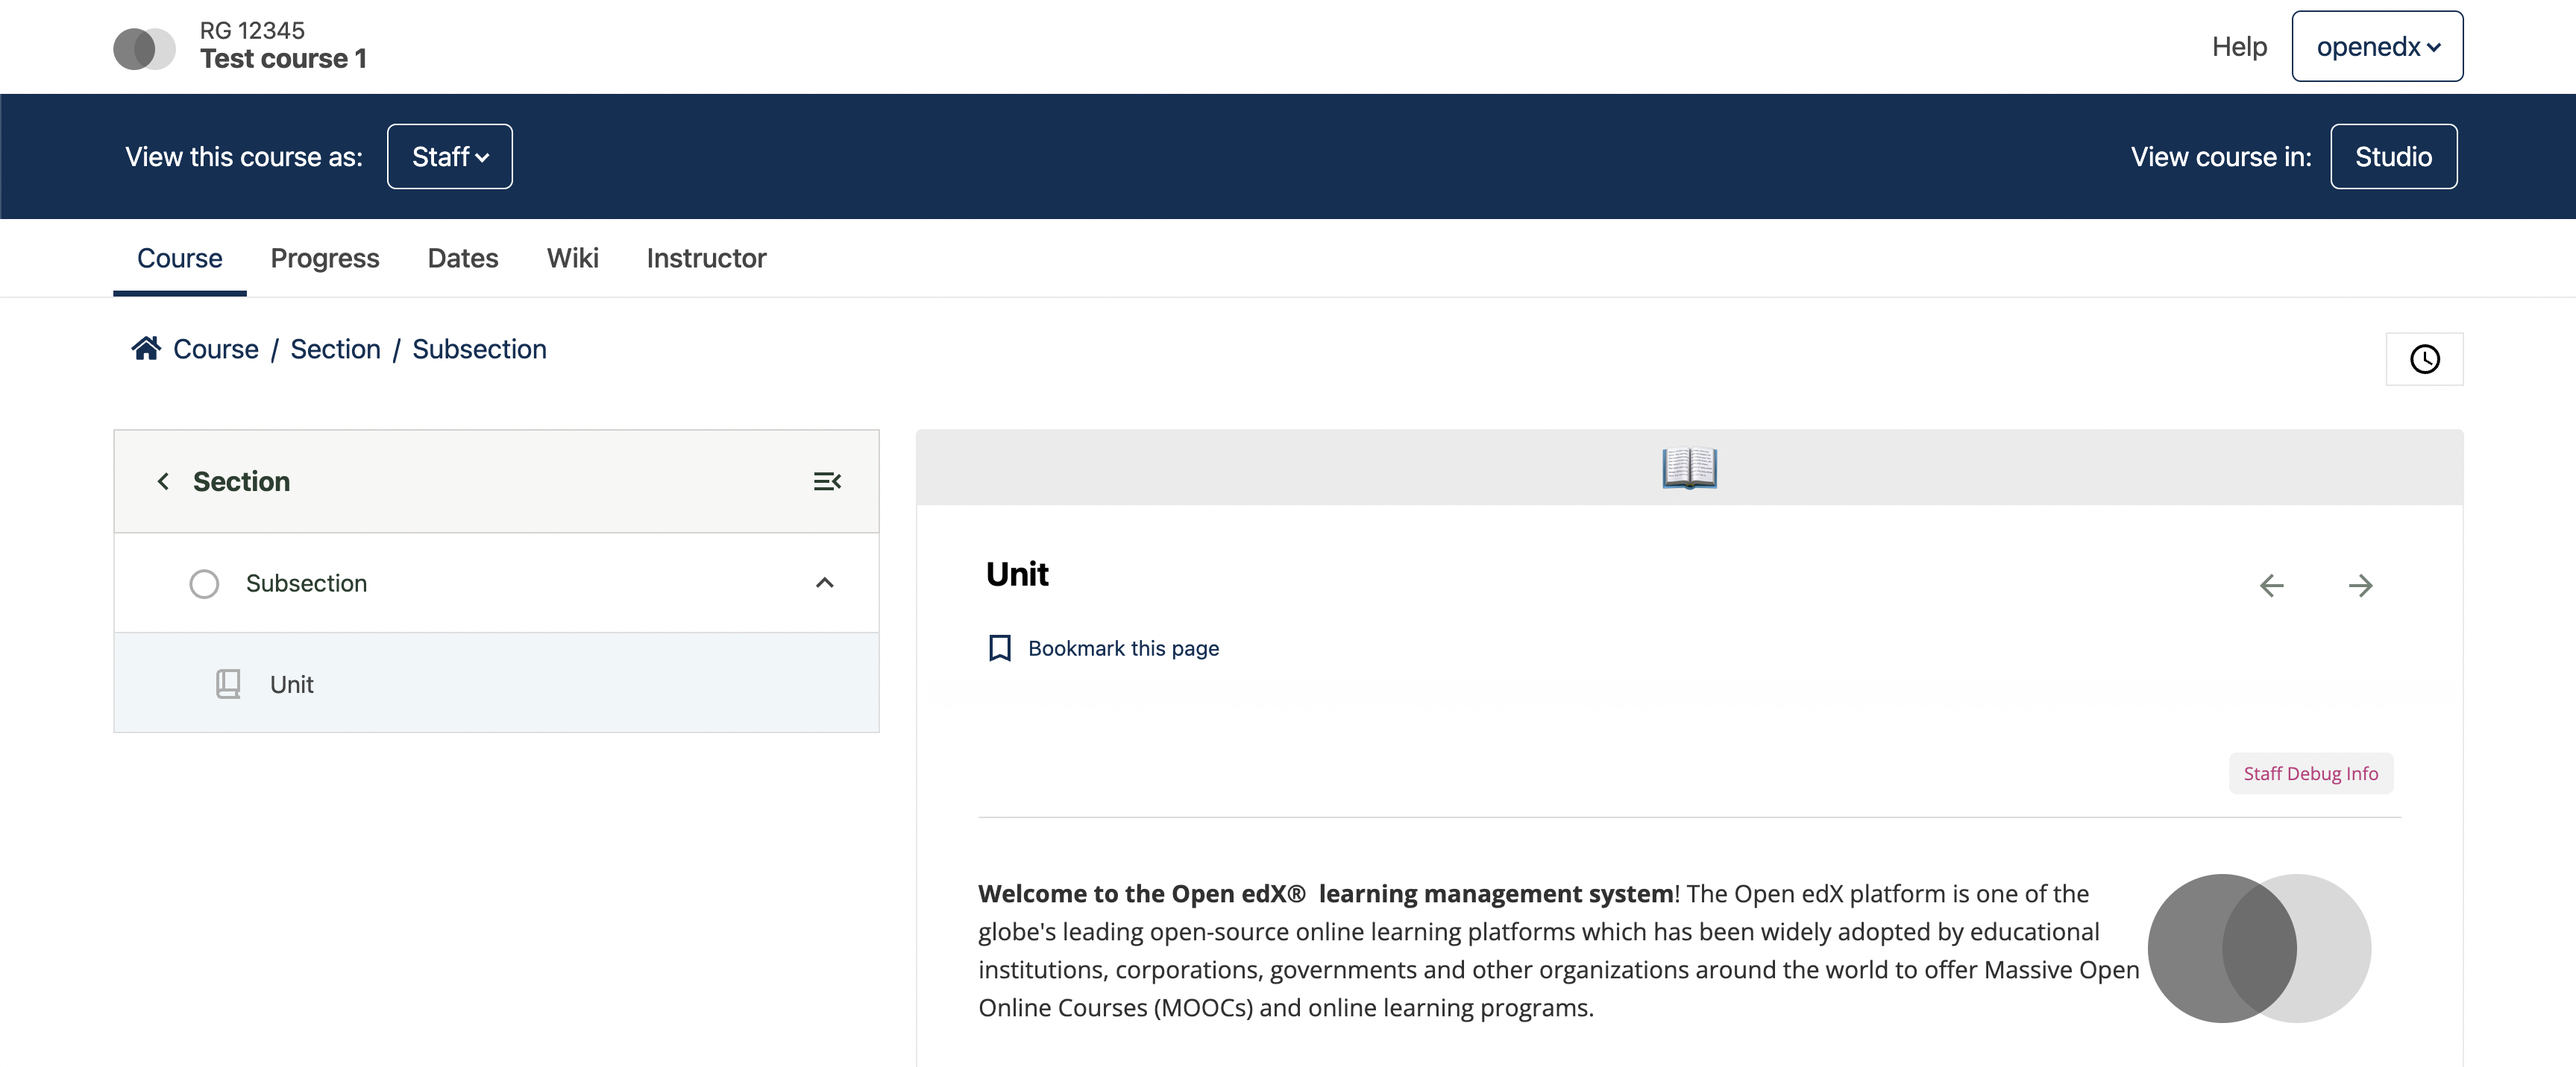
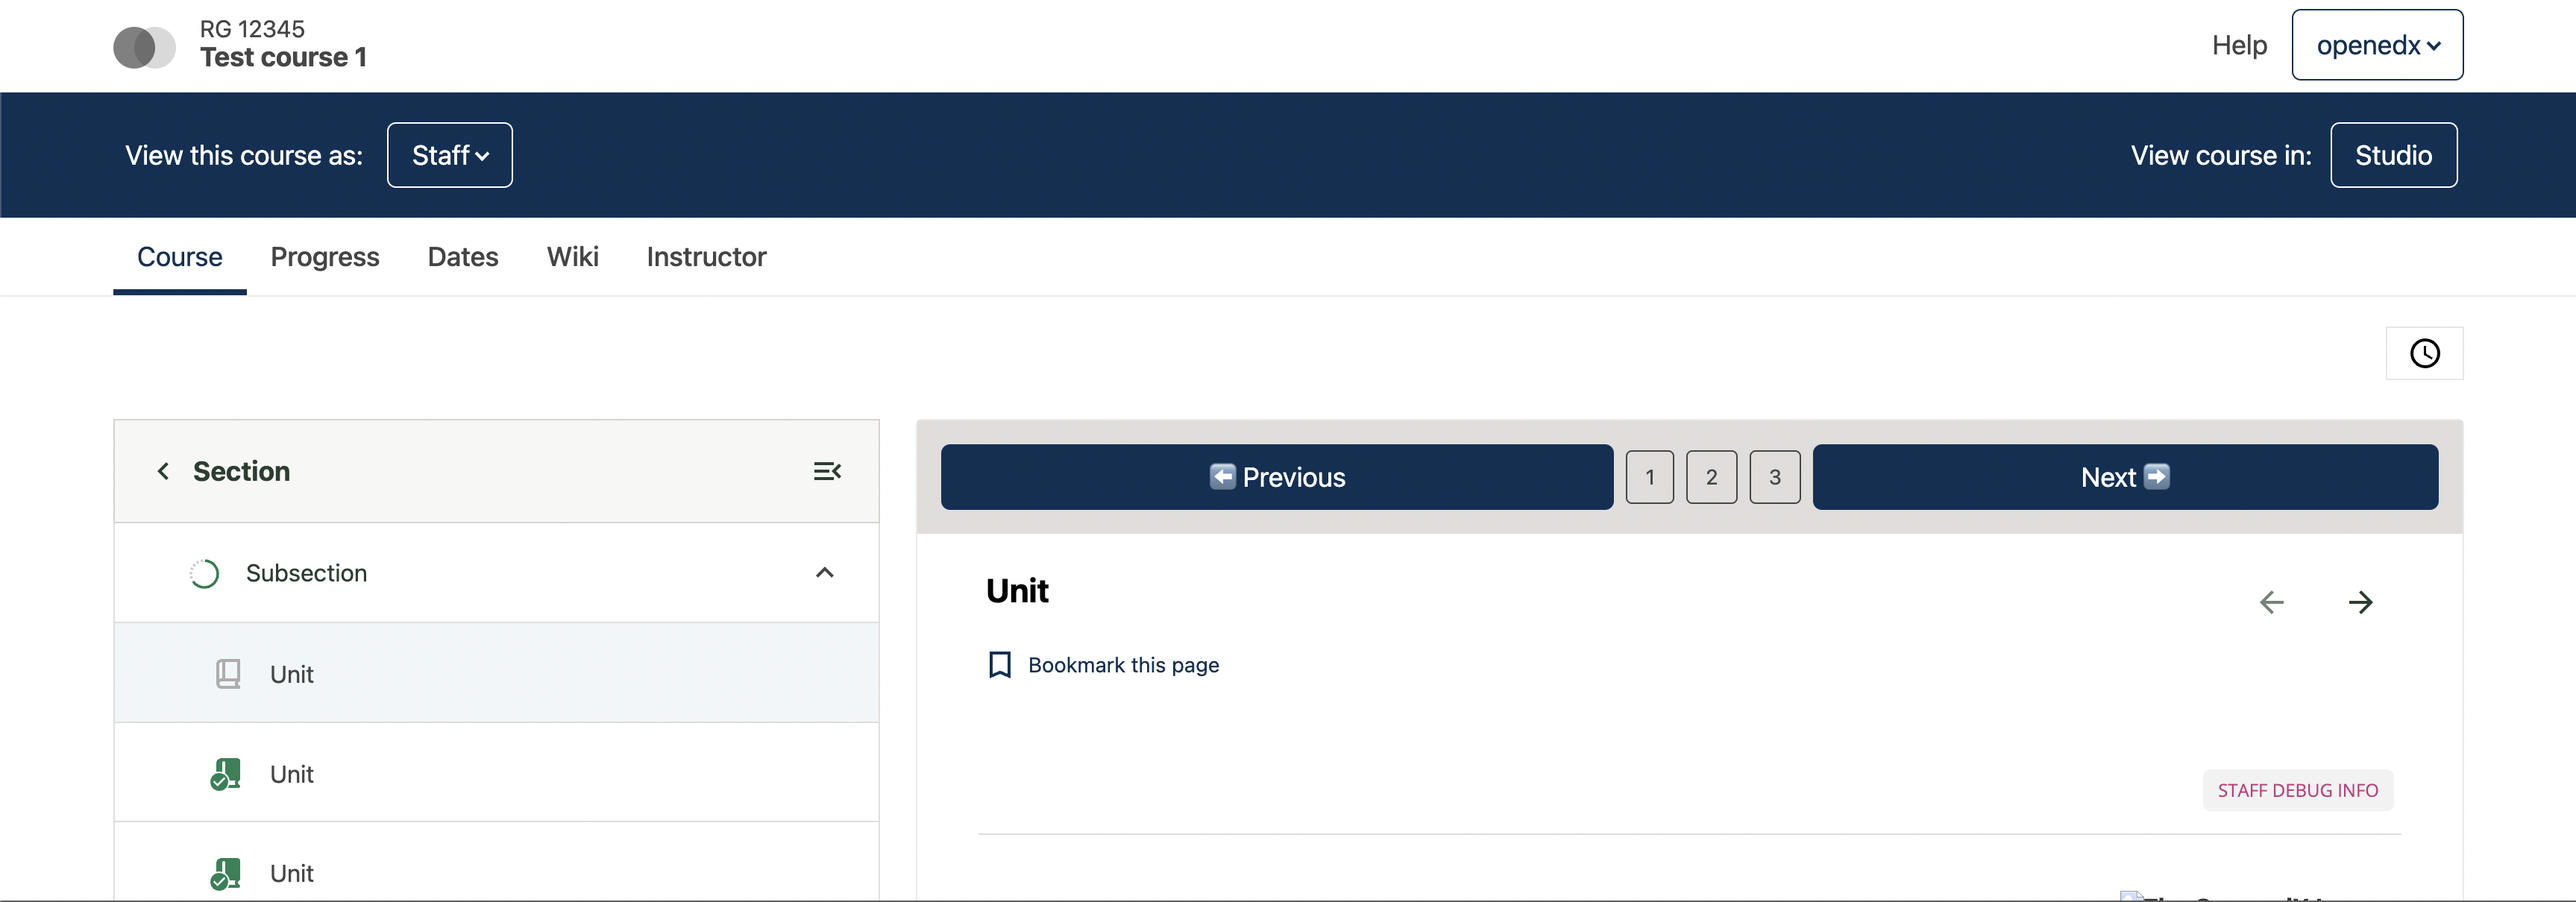
fix: update slot description

diff --git a/src/plugin-slots/SequenceNavigationSlot/index.jsx b/src/plugin-slots/SequenceNavigationSlot/index.jsx
@@ -13,10 +13,8 @@ const SequenceNavigationSlot = ({
 }) => (
   <PluginSlot
     id="org.openedx.frontend.learning.sequence_navigation.v1"
-    idAliases={['sequence_navigation_slot']}
     slotOptions={{
       mergeProps: true,
-      keepDefault: false,
     }}
     pluginProps={{
       sequenceId,

diff --git a/src/plugin-slots/SequenceNavigationSlot/README.md b/src/plugin-slots/SequenceNavigationSlot/README.md
@@ -2,19 +2,16 @@
 
 ### Slot ID: `org.openedx.frontend.learning.sequence_navigation.v1`
 
-### Slot ID Aliases
-* `sequence_navigation_slot`
-
 ### Props:
-* `sequenceId`
-* `unitId`
-* `nextHandler`
-* `onNavigate`
-* `previousHandler`
+* `sequenceId` (string) — Current sequence identifier
+* `unitId` (string) — Current unit identifier
+* `nextHandler` (function) — Handler for next navigation action
+* `onNavigate` (function) — Handler for direct unit navigation
+* `previousHandler` (function) — Handler for previous navigation action
 
 ## Description
 
-This slot is used to replace/modify/hide the sequence navigation.
+This slot is used to replace/modify/hide the sequence navigation component that controls navigation between units within a course sequence.
 
 ## Example
 
@@ -24,7 +21,7 @@ This slot is used to replace/modify/hide the sequence navigation.
 ### Replaced with custom component
 ![📖 in sequence navigation slot](./screenshot_custom.png)
 
-The following `env.config.jsx` will replace the sequence navigation entirely.
+The following `env.config.jsx` will replace the sequence navigation with a custom implementation that uses all available props.
 
 ```js
 import { DIRECT_PLUGIN, PLUGIN_OPERATIONS } from '@openedx/frontend-plugin-framework';
@@ -39,9 +36,39 @@ const config = {
           widget: {
             id: 'custom_sequence_navigation',
             type: DIRECT_PLUGIN,
-            RenderWidget: () => (
-              <h1 className="bg-gray-100 text-center">📖</h1>
-            ),
+            RenderWidget: ({ sequenceId, unitId, nextHandler, onNavigate, previousHandler }) => {
+              // Mock unit data for demonstration
+              const units = ['unit-1', 'unit-2', 'unit-3'];
+
+              return (
+                <Stack gap={2} direction="horizontal" className="p-3 bg-light w-100">
+                  <Button
+                    className="flex-grow-1"
+                    onClick={previousHandler}
+                  >
+                    ⬅ Previous
+                  </Button>
+                  <Stack gap={2} direction="horizontal">
+                    {units.map((unit, index) => (
+                      <Button
+                        variant="outline-primary"
+                        key={unit}
+                        className={`btn btn-sm ${unitId === unit ? 'btn-primary' : 'btn-outline-secondary'}`}
+                        onClick={() => onNavigate(unit)}
+                      >
+                        {index + 1}
+                      </Button>
+                    ))}
+                  </Stack>
+                  <Button
+                    className="flex-grow-1"
+                    onClick={nextHandler}
+                  >
+                    Next ➡
+                  </Button>
+                </Stack>
+              )
+            },
           },
         },
       ]
